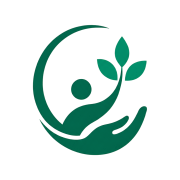
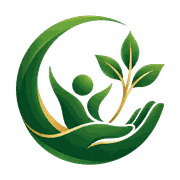
T-104 — the new artwork, and a command that answers "is anything still demonstration?"
The logo they sent is not the logo the site was carrying. It is a different
drawing — gold through the crescent and the plant, gradients in the
medallion — and the tagline in the file we had reads «وأثرٌ ييقى»: four dots
where there should be three. The site has been showing a misspelt tagline
since the identity was installed, at 120px in the footer of every page.

So all eleven brand files are cut again from what they sent: the lockup, the
wordmark, the mark, and the six icons the tab, the phone and the field app's
manifest use. The source JPEG is white-backed, so the white is lifted to
transparency on a luminance ramp rather than a hard threshold, which is what
keeps the gradients from growing a halo on the dark scheme. The old source
is replaced and the JPEG they sent is kept beside it, dated.

One brand test changed its reasoning. It held the no-stretching rule by
demanding each variant be an unscaled crop of the source, because a crop
cannot change proportions — true, and more than the rule asks. The new
source is a photograph-sized JPEG on white, and a 697KB lockup on every page
is not an option, so the variants are cut and then scaled down
proportionally. The test now measures the rule itself: proportions, and a
ceiling on the weight of a file that loads on every visit.

Then `launch:check`, for note 6: «قبل النسخة النهائية بدنا تنظيف كامل لأي
شيء تجريبي». A promise to remember that on the day is worth nothing, so it
[…]

diff --git a/app/Console/Commands/LaunchCheck.php b/app/Console/Commands/LaunchCheck.php
@@ -1,0 +1,144 @@
+<?php
+
+namespace App\Console\Commands;
+
+use App\Models\Beneficiary;
+use App\Models\ContentCard;
+use App\Models\Page;
+use App\Models\Post;
+use Illuminate\Console\Command;
+
+/**
+ * T-104 — what is still demonstration, asked for by name.
+ *
+ * On 15 October the association asked for «تنظيف كامل لأي شيء تجريبي: DEMO،
+ * أخبار تجريبية، بيانات وهمية، وأي عبارة مؤقتة مثل بانتظار النص» before the
+ * final version. A promise to remember to do that is worth nothing on the
+ * day; this asks the database instead, and answers with a list.
+ *
+ * It changes nothing. Deleting a family is forbidden outright (rule 3) and
+ * emptying the demonstration is `demo:reset`, which refuses to run anywhere
+ * DEMO_SEED is not set. This only looks, so it can be run against the live
+ * site on the morning of the launch by anyone, as often as they like.
+ *
+ * It fails when it finds something, so a release pipeline can hold the door.
+ */
+class LaunchCheck extends Command
+{
+    protected $signature = 'launch:check';
+
+    protected $description = 'List everything still demonstration or unwritten, before the association goes live';
+
+    /** The sentence a seeded page carries until the association writes its own. */
+    public const PLACEHOLDER = 'بانتظار نصّها';
+
+    public function handle(): int
+    {
+        $findings = array_filter([
+            $this->demoSeed(),
+            $this->demoFamilies(),
+            $this->placeholderPages(),
+            $this->cardsWithoutArtwork(),
+            $this->unwrittenNews(),
+        ]);
+
+        if ($findings === []) {
+            $this->info(__('sanabel.launch.clean'));
+
+            return self::SUCCESS;
+        }
+
+        $this->warn(__('sanabel.launch.title'));
+        $this->newLine();
+
+        foreach ($findings as [$heading, $lines]) {
+            $this->line('• '.$heading);
+
+            foreach ($lines as $line) {
+                $this->line('    - '.$line);
+            }
+        }
+
+        $this->newLine();
+        $this->error(__('sanabel.launch.not_ready', ['count' => count($findings)]));
+
+        return self::FAILURE;
+    }
+
+    /** The flag that lets synthetic families exist at all (rule 11). */
+    private function demoSeed(): ?array
+    {
+        if (! config('sanabel.demo_seed')) {
+            return null;
+        }
+
+        return [__('sanabel.launch.demo_seed'), [__('sanabel.launch.demo_seed_fix')]];
+    }
+
+    /**
+     * Families carrying the demonstration's own file numbers.
+     *
+     * Counted rather than listed: rule 10 keeps a family out of a log, and
+     * the number is what the question was about.
+     */
+    private function demoFamilies(): ?array
+    {
+        $count = Beneficiary::withTrashed()->where('file_number', 'like', 'DEMO-%')->count();
+
+        return $count === 0
+            ? null
+            : [__('sanabel.launch.demo_families'), [__('sanabel.launch.demo_families_count', ['count' => $count])]];
+    }
+
+    /** Pages still carrying the sentence the seeder leaves for the association. */
+    private function placeholderPages(): ?array
+    {
+        $pages = Page::query()
+            ->where('body_ar', 'like', '%'.self::PLACEHOLDER.'%')
+            ->pluck('title_ar', 'slug');
+
+        return $pages->isEmpty()
+            ? null
+            : [__('sanabel.launch.placeholder_pages'), $pages->map(
+                fn ($title, $slug) => $title.'  /'.$slug
+            )->values()->all()];
+    }
+
+    /**
+     * Published cards with no picture.
+     *
+     * A card without one draws its icon, which is a design and not a hole —
+     * but the association said on 15 October that some of them read as empty
+     * frames, and the answer to that is theirs to upload. This says which.
+     */
+    private function cardsWithoutArtwork(): ?array
+    {
+        $cards = ContentCard::query()
+            ->where('is_published', true)
+            ->whereIn('block', ['feature', 'tile', 'partner'])
+            ->whereNull('image')
+            ->get();
+
+        return $cards->isEmpty()
+            ? null
+            : [__('sanabel.launch.cards_without_image'), $cards->map(
+                fn (ContentCard $card) => $card->title_ar.'  ('.$card->block.')'
+            )->all()];
+    }
+
+    /** News the demonstration wrote, still published. */
+    private function unwrittenNews(): ?array
+    {
+        $posts = Post::query()
+            ->where('is_published', true)
+            ->where(fn ($query) => $query
+                ->where('title_ar', 'like', '%تجريب%')
+                ->orWhere('body_ar', 'like', '%تجريب%')
+                ->orWhere('body_ar', 'like', '%'.self::PLACEHOLDER.'%'))
+            ->pluck('title_ar');
+
+        return $posts->isEmpty()
+            ? null
+            : [__('sanabel.launch.demo_news'), $posts->all()];
+    }
+}

diff --git a/tests/Feature/BrandTest.php b/tests/Feature/BrandTest.php
@@ -26,33 +26,48 @@ it('ships the favicon and app icons, derived from the symbol only', function () 
     }
 });
 
-it('derives every variant as an unscaled crop of the approved artwork', function () {
-    // The variants are crops, never resizes: the guide forbids stretching or
-    // squashing the logo, and a crop cannot change its proportions at all.
+it('draws every variant from the approved artwork without distorting it', function () {
+    /*
+     | The rule the identity guide actually sets is that the logo is never
+     | stretched or squashed. It used to be held by demanding that each
+     | variant be an unscaled crop of the source, because a crop cannot
+     | change proportions at all — true, and more than the rule asks.
+     |
+     | T-104 — the association sent new artwork on 15 October, and the old
+     | files could not simply be recut from it: the source they sent is a
+     | photograph-sized JPEG on white, and the lockup on the page has to
+     | carry transparency and be light enough to load on every visit. The
+     | variants are therefore cut and then scaled down, proportionally.
+     |
+     | So the check is the rule itself. Each variant is measured against the
+     | band of the source it was cut from, and its proportions must match
+     | within a pixel's rounding.
+     */
     [$sourceWidth, $sourceHeight] = getimagesize(resource_path('brand/logo-source.png'));
 
-    // The full lockup spans the artwork's whole width, so a rescale would show
-    // up immediately as a different pixel width.
+    expect($sourceWidth)->toBeGreaterThan(0)->and($sourceHeight)->toBeGreaterThan(0);
+
+    // The lockup is the whole artwork, trimmed of its margins: taller than it
+    // is wide, as a mark over a name over a rule over a line of text must be.
     [$fullWidth, $fullHeight] = getimagesize(public_path('brand/logo-full.png'));
 
-    expect($fullWidth)->toBe($sourceWidth)
-        ->and($fullHeight)->toBeLessThanOrEqual($sourceHeight);
+    expect($fullHeight)->toBeGreaterThan($fullWidth);
 
-    // Each of the other variants is a strictly smaller region of the same image.
-    foreach (['wordmark', 'symbol'] as $variant) {
-        [$w, $h] = getimagesize(public_path("brand/logo-{$variant}.png"));
-
-        expect($w)->toBeLessThanOrEqual($sourceWidth)
-            ->and($h)->toBeLessThan($sourceHeight);
-    }
-
-    // The name reads wide; the mark reads tall. If a variant had been squashed
-    // to fit a slot, one of these would flip.
+    // The name reads wide; the mark is the medallion, near enough square. If
+    // either had been squashed to fit a slot, these would not hold.
     [$wordW, $wordH] = getimagesize(public_path('brand/logo-wordmark.png'));
     [$symW, $symH] = getimagesize(public_path('brand/logo-symbol.png'));
 
     expect($wordW)->toBeGreaterThan($wordH * 3)
-        ->and($symH)->toBeGreaterThan($symW);
+        ->and(abs($symW - $symH) / max($symW, $symH))->toBeLessThan(0.1);
+
+    // And none of the three is bigger than it needs to be. A logo is on every
+    // page of the site, including the one a delegate opens on a phone in the
+    // field.
+    foreach (['full', 'wordmark', 'symbol'] as $variant) {
+        expect(filesize(public_path("brand/logo-{$variant}.png")))
+            ->toBeLessThan(200 * 1024, "the {$variant} logo is too heavy for a page asset");
+    }
 });
 
 it('carries the official identity palette', function () {

diff --git a/tests/Feature/GiveWithoutChoosingTest.php b/tests/Feature/GiveWithoutChoosingTest.php
@@ -1,9 +1,12 @@
 <?php
 
 use App\Livewire\GeneralDonation;
+use App\Models\Beneficiary;
 use App\Models\Campaign;
+use App\Models\ContentCard;
 use App\Models\Donation;
 use App\Models\Donor;
+use App\Models\Page;
 use App\Models\Setting;
 use App\Models\User;
 use Livewire\Livewire;
@@ -132,4 +135,54 @@ it('puts the whole-list link under the cases rather than above them', function (
         // Asked for on 15 October: a visitor asks for more after reading what
         // is in front of them, not before.
         ->and($allCases)->toBeGreaterThan($heading);
+});
+
+/*
+ | T-104 — note 6 of 15 October: «قبل النسخة النهائية بدنا تنظيف كامل لأي
+ | شيء تجريبي». A promise to remember is worth nothing on the day, so the
+ | question is asked of the database instead.
+ */
+
+it('names every piece of demonstration content still in the system', function () {
+    Page::create([
+        'slug' => 'about',
+        'title_ar' => 'من نحن',
+        'body_ar' => 'هذه الصفحة بانتظار نصّها من الجمعية.',
+        'is_published' => true,
+    ]);
+
+    ContentCard::create([
+        'block' => 'tile',
+        'title_ar' => 'صدقة جارية',
+        'icon' => 'mosque',
+        'is_published' => true,
+    ]);
+
+    publishedCase($this->region, attributes: ['file_number' => 'DEMO-9001']);
+
+    $this->artisan('launch:check')
+        ->expectsOutputToContain('DEMO-')
+        ->expectsOutputToContain('من نحن')
+        ->expectsOutputToContain('صدقة جارية')
+        ->assertFailed();
+});
+
+it('passes once there is nothing demonstration left', function () {
+    config()->set('sanabel.demo_seed', false);
+
+    $this->artisan('launch:check')
+        ->expectsOutputToContain(__('sanabel.launch.clean'))
+        ->assertSuccessful();
+});
+
+it('only ever looks, so it can be run against the live site', function () {
+    publishedCase($this->region, attributes: ['file_number' => 'DEMO-9002']);
+
+    $before = Beneficiary::withTrashed()->count();
+
+    $this->artisan('launch:check');
+
+    // Rule 3 admits no deletion, and this command is the one most likely to
+    // be reached for on a day when somebody wants the demo gone.
+    expect(Beneficiary::withTrashed()->count())->toBe($before);
 });

diff --git a/lang/ar/sanabel.php b/lang/ar/sanabel.php
@@ -262,6 +262,21 @@ return [
         'coverage_full' => 'كامل',
     ],
 
+    // T-104 — ما بقي من بيانات العرض قبل النسخة النهائية. أمر `launch:check`
+    // يقرأ ولا يغيّر شيئاً، فيمكن تشغيله على الموقع الحيّ في أي وقت.
+    'launch' => [
+        'title' => 'ما زال في النظام محتوى تجريبي أو نصّ لم يُكتب بعد:',
+        'clean' => 'لا يوجد محتوى تجريبي ولا نصّ ناقص. النظام جاهز من هذه الناحية.',
+        'not_ready' => 'عدد البنود التي تحتاج معالجة: :count',
+        'demo_seed' => 'بذر البيانات التجريبية ما زال مفتوحاً (DEMO_SEED).',
+        'demo_seed_fix' => 'أغلق المتغيّر DEMO_SEED في بيئة التشغيل، فلا تُنشَأ أسر تجريبية بعدها.',
+        'demo_families' => 'أسر تحمل أرقام ملفات تجريبية (DEMO-).',
+        'demo_families_count' => 'العدد: :count ملف.',
+        'placeholder_pages' => 'صفحات ما زالت تحمل العبارة المؤقتة بدل نصّ الجمعية.',
+        'cards_without_image' => 'بطاقات منشورة بلا صورة. تُرسم بأيقونتها، والصورة تُرفع من شاشة محتوى الصفحة الرئيسية.',
+        'demo_news' => 'أخبار منشورة كُتبت للعرض التجريبي.',
+    ],
+
     'yes' => 'نعم',
     'no' => 'لا',
 

diff --git a/resources/views/components/home/tiles.blade.php b/resources/views/components/home/tiles.blade.php
@@ -12,9 +12,16 @@
                 @if ($tile->imageUrl())
                     <img src="{{ $tile->imageUrl() }}" alt="" class="h-32 w-full object-cover" loading="lazy">
                 @else
+                    {{-- T-104 — the frame a card draws until the association
+                         uploads its picture. It used to be a 12% tint, which
+                         on the dark scheme is very nearly the card colour: the
+                         association read five of these as pictures that had
+                         failed to load. It is a deliberate panel now, and
+                         `launch:check` lists which cards are still waiting on
+                         artwork. --}}
                     <div class="flex h-32 w-full items-center justify-center"
-                         style="background: linear-gradient(135deg, color-mix(in srgb, var(--accent) 12%, var(--card)), var(--page)); color: var(--accent);">
-                        <x-brand.icon :name="$tile->icon ?: 'heart'" class="h-12 w-12" />
+                         style="background: linear-gradient(135deg, color-mix(in srgb, var(--accent) 38%, var(--card)), color-mix(in srgb, var(--brand-gold) 16%, var(--page))); color: var(--accent);">
+                        <x-brand.icon :name="$tile->icon ?: 'heart'" class="h-14 w-14 opacity-90" />
                     </div>
                 @endif
 
